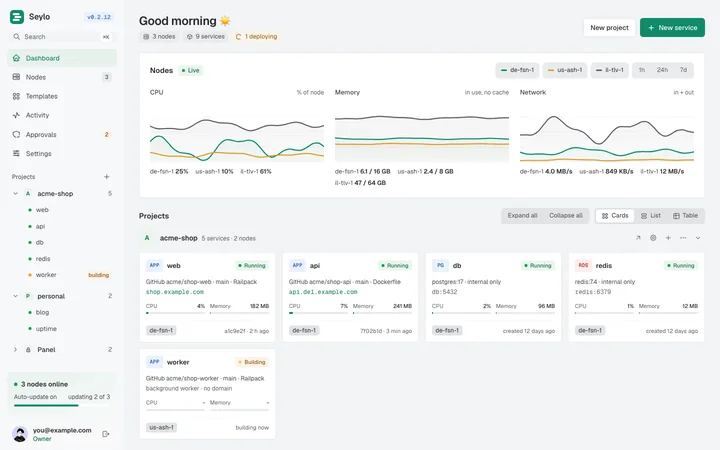
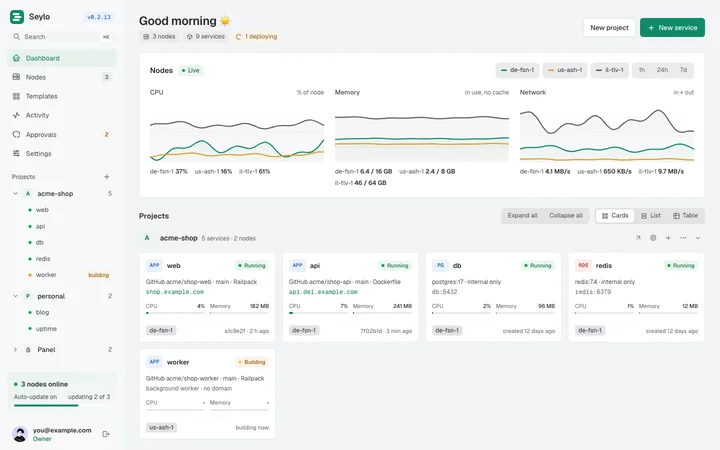
Landing: captures retaken from 0.2.13
Taken from the v0.2.13 tag with the demo at 0.2.13, light and dark,
and kept only where a visitor sees a change:

- the hero: the sidebar says v0.2.13
- the ten theme previews, both halves: v0.2.13 in the sidebar
- the node overview: agent v0.2.13
- the logs: the follow button's new icon
- the dark domain access, crash policy and replicas: 0.2.13's dark
  switch thumb; the dark timed expose: its chip and buttons

Templates, env, health check, node health, database, approvals, people
and appearance render the same in v0.2.13 (database differs only in
the clock), as do the light domain access, crash policy, timed expose
and replicas, metrics (1px taller) and uptime: those keep their files.
No crop size changed.

Changed region(s): [[0.2139, 0.2489, 0.9778, 0.4044], [0.4889, 0.3733, 0.6417, 0.4356]]

diff --git a/apps/landing/lib/captures.ts b/apps/landing/lib/captures.ts
@@ -1,8 +1,10 @@
 // Real crops of the panel, taken at 2x from the panel's demo mode with demo data, once in the light half
 // and once in the dark half of its default theme from the same data: see tools/hero-shot/README.md,
-// "Demo mode". The hero, the theme previews and the crops whose screen changed were taken from the 0.2.13
-// build (its demo data still says v0.2.12, the version it was made as); the others (domain access, crash
-// policy, timed expose, replicas, logs, metrics, uptime) are from v0.1.1 and look the same in 0.2.13.
+// "Demo mode". The hero, the theme previews, the node overview and the logs were taken from v0.2.13 (its demo
+// says v0.2.13), as were the dark files of domain access, crash policy, timed expose and replicas (0.2.13's
+// dark switches and chips). The rest look the same in v0.2.13 and keep older files: templates, env, health
+// check, node health, database, approvals, people and appearance from the 0.2.13 build before the release;
+// the light domain access, crash policy, timed expose and replicas, metrics and uptime from v0.1.1.
 // Width and height are CSS pixels (half the file's); the light and dark files of a crop have the same size.
 
 export interface Capture {
